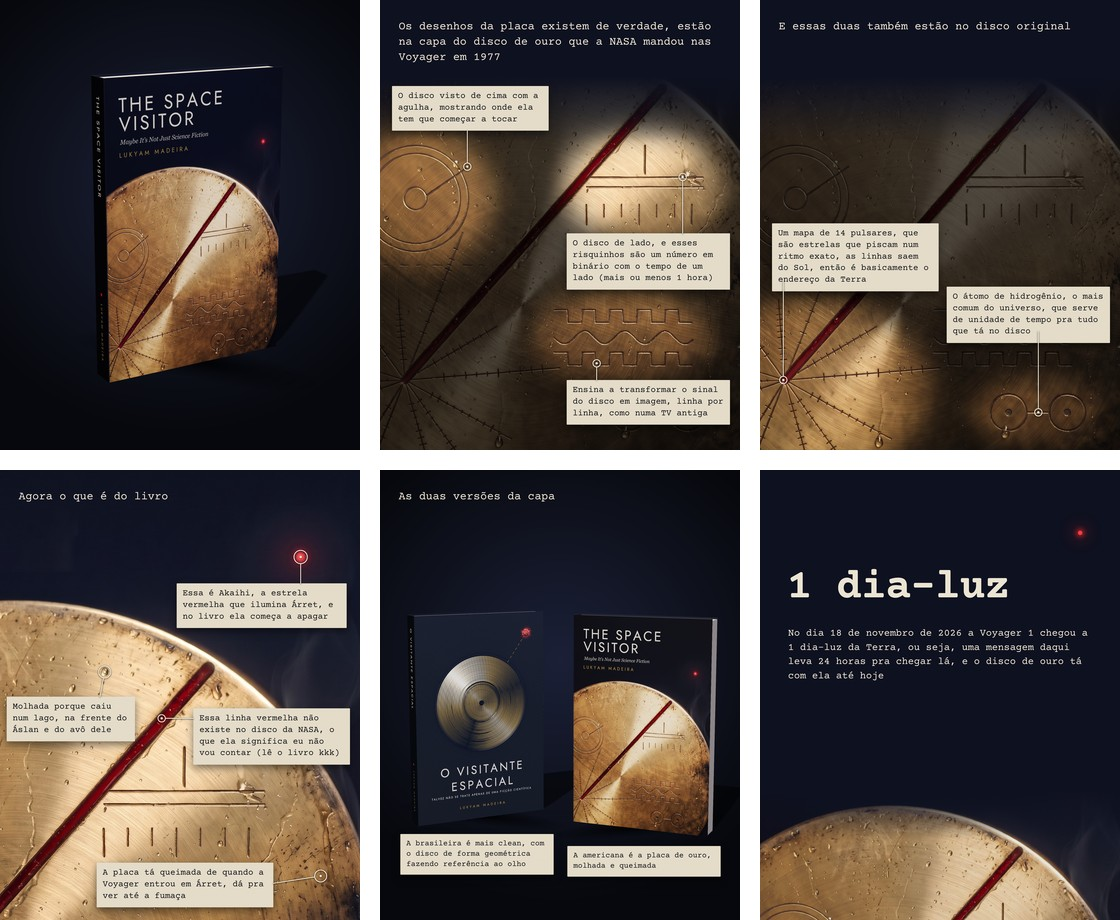
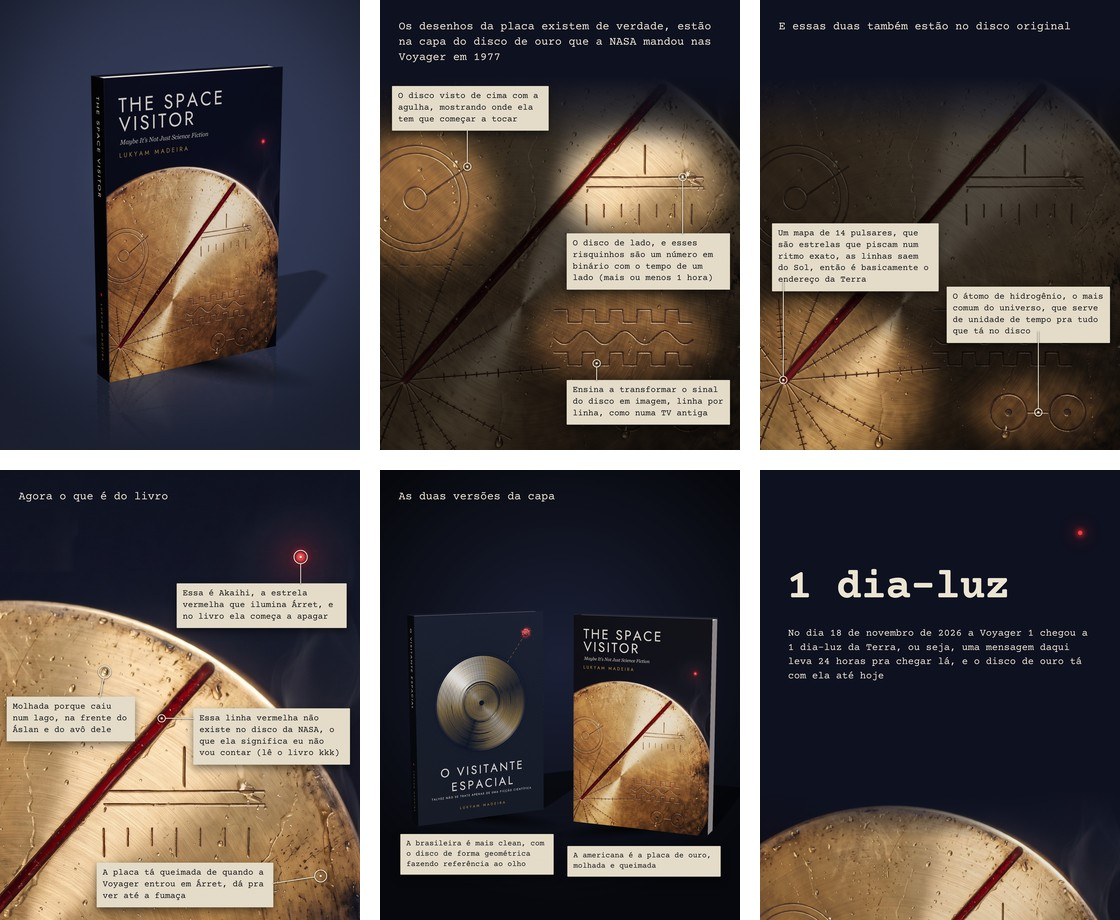
Give the 3D book slide a lighter studio background with a wet-floor reflection
Claude-Session: https://claude.ai/code/session_018jbtg3iWLGLmtVSJbcNmQE

Changed region(s): [[0.0, 0.0, 0.3438, 0.487]]

diff --git a/o-visitante-espacial/post_capa_final/fonte/mockup.html b/o-visitante-espacial/post_capa_final/fonte/mockup.html
@@ -25,6 +25,8 @@ import * as THREE from 'three';
 import {RoomEnvironment} from 'three/addons/environments/RoomEnvironment.js';
 const q=new URLSearchParams(location.search);
 const sceneName=q.get('scene')||'en';
+const transparent=q.get('transparent')==='1', reflect=q.get('reflect')==='1';
+if(transparent)document.body.style.background='transparent';
 const W=1080,H=1350;
 const renderer=new THREE.WebGLRenderer({antialias:true,alpha:true,preserveDrawingBuffer:true});
 renderer.setPixelRatio(window.devicePixelRatio);
@@ -91,13 +93,15 @@ function contact(x,z,ry,w,d){
 }
 if(sceneName==='en'){
   const b=await book('en',6,9,0.81);
-  b.position.set(0.3,4.5,0);b.rotation.y=0.52;scene.add(b);contact(0.3,0,-0.52,8.5,2.6);
+  b.rotation.y=0.52;
+  if(reflect){b.position.set(0.3,-4.5,0);b.scale.y=-1;}else{b.position.set(0.3,4.5,0);contact(0.3,0,-0.52,8.5,2.6);}
+  scene.add(b);
   camera.position.set(0,12.5,31);camera.lookAt(0,4.35,0);
   document.getElementById('star').style.display='none';
 }else{
   const pt=await book('pt',6,9,0.85), en=await book('en',6,9,0.81);
   const P=[[pt,-3.6,-1.2,0.48,'BRASIL'],[en,3.5,0.6,-0.40,'EUA']];
-  for(const [b,x,z,r] of P){b.position.set(x,4.5,z);b.rotation.y=r;scene.add(b);contact(x,z,-r,8.5,2.6);}
+  for(const [b,x,z,r] of P){b.rotation.y=r;if(reflect){b.position.set(x,-4.5,z);b.scale.y=-1;}else{b.position.set(x,4.5,z);contact(x,z,-r,8.5,2.6);}scene.add(b);}
   camera.position.set(0,12.5,44.5);camera.lookAt(0,5.6,0);camera.updateMatrixWorld();
   document.getElementById('star').style.display='none';
   const notext=q.get('notext')==='1';
@@ -110,6 +114,8 @@ if(sceneName==='en'){
     d.style.left=((v.x+1)/2*W-200)+'px';d.style.top=((1-v.y)/2*H+40)+'px';document.body.appendChild(d);
   }
 }
+if(transparent&&!reflect){ground.material.opacity=0.3;key.shadow.radius=26;key.shadow.blurSamples=32;}
+if(reflect){ground.visible=false;for(const L of [key,fill,rim])L.position.y*=-1;}
 renderer.render(scene,camera);
 await document.fonts.ready;
 window.__done=true;

diff --git a/o-visitante-espacial/post_capa_final/fonte/shot.js b/o-visitante-espacial/post_capa_final/fonte/shot.js
@@ -9,6 +9,6 @@ const { chromium } = require('playwright');
   await page.goto(url);
   await page.waitForFunction(() => window.__done === true, null, { timeout: 120000 });
   await page.waitForTimeout(300);
-  await page.screenshot({ path: out });
+  await page.screenshot({ path: out, omitBackground: true });
   await browser.close();
 })();

diff --git a/o-visitante-espacial/post_capa_final/fonte/compose_bg.py b/o-visitante-espacial/post_capa_final/fonte/compose_bg.py
@@ -1,0 +1,76 @@
+"""Compose the 3D book render over a lighter studio background, with an optional wet-floor reflection.
+
+usage: python3 compose_bg.py <book_alpha.png> <reflect.png> <out.png> <palette> <reflection 0/1>
+"""
+import sys
+import numpy as np
+from PIL import Image, ImageFilter
+
+PALETTES = {
+    # (light pool behind the book, mid, edges/corners, floor tint at the bottom)
+    'slate': ((86, 98, 130), (48, 56, 82), (24, 28, 43), (30, 35, 52)),
+    'ardosia_clara': ((112, 124, 152), (66, 75, 103), (33, 38, 56), (40, 46, 66)),
+    'pedra': ((150, 139, 124), (96, 88, 78), (48, 44, 40), (62, 57, 51)),
+    'crepusculo': ((92, 92, 128), (52, 52, 82), (22, 24, 40), (70, 42, 48)),
+}
+
+
+def background(w, h, pal, cx, cy):
+    c0, c1, c2, floor = [np.array(c, np.float32) for c in PALETTES[pal]]
+    y, x = np.mgrid[0:h, 0:w].astype(np.float32)
+    # elliptical light pool, a bit wider than tall
+    d = np.sqrt(((x - cx) / (w * 0.62)) ** 2 + ((y - cy) / (h * 0.55)) ** 2)
+    t1 = np.clip(d / 0.55, 0, 1)
+    t2 = np.clip((d - 0.55) / 0.75, 0, 1)
+    s1 = t1 * t1 * (3 - 2 * t1)
+    s2 = t2 * t2 * (3 - 2 * t2)
+    img = c0 * (1 - s1)[..., None] + c1 * s1[..., None]
+    img = img * (1 - s2)[..., None] + c2 * s2[..., None]
+    # the lower part reads as floor: blend slowly towards the floor tint
+    tf = np.clip((y - h * 0.80) / (h * 0.20), 0, 1)[..., None]
+    img = img * (1 - 0.55 * tf) + floor * (0.55 * tf)
+    # fine grain so the gradient does not band on Instagram
+    rng = np.random.default_rng(3)
+    img += rng.normal(0, 2.2, img.shape).astype(np.float32)
+    return img
+
+
+def reflection_layer(refl, opacity=0.30, length=520, blur=3.0, amp=2.5, wave=22.0):
+    r = refl.filter(ImageFilter.GaussianBlur(blur))
+    a = np.asarray(r).astype(np.float32)
+    h, w = a.shape[:2]
+    # ripple: shift each row a little, like a film of water
+    out = np.zeros_like(a)
+    for yy in range(h):
+        s = int(round(amp * np.sin(2 * np.pi * yy / wave) + 0.6 * amp * np.sin(2 * np.pi * yy / (wave * 2.7) + 1.3)))
+        out[yy] = np.roll(a[yy], s, axis=0)
+    alpha = out[..., 3] / 255.0
+    # fade per column, starting where the reflection starts (the contact line)
+    has = alpha > 0.02
+    start = np.where(has.any(axis=0), has.argmax(axis=0), h).astype(np.float32)
+    # smooth the start line so the fade has no steps
+    k = 41
+    pad = np.pad(start, (k // 2, k // 2), mode='edge')
+    start = np.convolve(pad, np.ones(k) / k, mode='valid')
+    yy = np.arange(h, dtype=np.float32)[:, None]
+    f = np.clip(1 - (yy - start[None, :]) / length, 0, 1) ** 1.6
+    alpha = alpha * f * opacity
+    return out[..., :3], alpha
+
+
+def main():
+    book_p, refl_p, out_p, pal, use_refl = sys.argv[1:6]
+    book = Image.open(book_p).convert('RGBA')
+    w, h = book.size
+    bg = background(w, h, pal, cx=w * 0.52, cy=h * 0.40)
+    if use_refl == '1':
+        rgb, alpha = reflection_layer(Image.open(refl_p).convert('RGBA'))
+        bg = bg * (1 - alpha[..., None]) + rgb * alpha[..., None]
+    b = np.asarray(book).astype(np.float32)
+    ba = b[..., 3:4] / 255.0
+    comp = bg * (1 - ba) + b[..., :3] * ba
+    Image.fromarray(np.clip(comp, 0, 255).astype(np.uint8)).save(out_p)
+
+
+if __name__ == '__main__':
+    main()

diff --git a/o-visitante-espacial/README.md b/o-visitante-espacial/README.md
@@ -100,7 +100,7 @@ Feito em 27/11/2026 a partir da capa aberta americana de 25-11 (a placa molhada 
 
 | Slide | O que mostra |
 |---|---|
-| 01 | O livro em 3D, com a lombada. A contracapa não aparece, porque o texto dela ainda fala em "eleven million years". |
+| 01 | O livro em 3D, com a lombada, num fundo azul de estúdio (não mais quase preto) e com o chão levemente molhado refletindo o livro, que lembra a placa molhada. A contracapa não aparece, porque o texto dela ainda fala em "eleven million years". Outras opções de fundo em `alternativas_de_fundo.jpg`. |
 | 02 | **O que é de verdade (1):** a placa com luz só nas gravuras do Disco de Ouro. Mostra como tocar (o disco visto de cima, com a agulha), quanto dura (o disco de lado e o tempo de um lado em binário, cerca de 1 hora) e como ver as fotos (o sinal que vira imagem). |
 | 03 | **O que é de verdade (2):** o mapa de 14 pulsares que aponta pro Sol e o átomo de hidrogênio, que é a unidade de tempo do disco. |
 | 04 | **O que é do livro:** Akaihi, a linha vermelha, molhado (o lago) e queimado (a entrada em Árret como bola de fogo, ainda soltando fumaça). |
@@ -114,7 +114,7 @@ O `00_visao_geral.jpg` mostra os seis juntos.
 - **Linha vermelha:** o slide não fala em rota. Diz só que ela não existe no disco da NASA e que o significado fica pro livro.
 - **Fontes das gravuras:** as explicações seguem a descrição da NASA/JPL para a capa do Golden Record. A arte da capa é uma versão estilizada, então a posição das gravuras não é igual à do disco real.
 - **Fontes do livro:** a contracapa (bola de fogo no lago de Árret, Akaihi apagando), o capítulo 1 (Áslan e o avô no lago) e o próprio autor (queimado = a entrada em Árret).
-- **Para refazer:** `fonte/` tem as páginas usadas para gerar as imagens. `mockup.html` monta o livro 3D com three.js 0.160 (com `notext=1` sai sem texto e vira o fundo dos slides 1 e 5, em `bg/`). `slides.html` monta os slides com Courier Prime e aceita `st=ficha`, `st=mao` (Caveat) ou `st=edit` (Archivo). As duas renderizam no Chromium com `shot.js`. As imagens da capa recortada (`src/`) não estão no repositório e saem da capa aberta do Drive: EN frente `(2080,38)-(3880,2738)` e PT frente `(1906,34)-(3546,2494)`.
+- **Para refazer:** `fonte/` tem as páginas usadas para gerar as imagens. `mockup.html` monta o livro 3D com three.js 0.160 (com `notext=1` sai sem texto e vira o fundo do slide 5, em `bg/`). O slide 1 sai de dois renders com fundo transparente, `transparent=1` e `transparent=1&reflect=1` (o reflexo), juntados por `compose_bg.py` com a paleta `slate` (as outras são `ardosia_clara`, `pedra` e `crepusculo`). `slides.html` monta os slides com Courier Prime e aceita `st=ficha`, `st=mao` (Caveat) ou `st=edit` (Archivo). As duas renderizam no Chromium com `shot.js`. As imagens da capa recortada (`src/`) não estão no repositório e saem da capa aberta do Drive: EN frente `(2080,38)-(3880,2738)` e PT frente `(1906,34)-(3546,2494)`.
 
 ## Pontos para conferir
 
